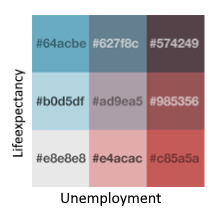
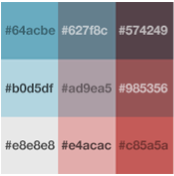
nuts regios pas tekenen nadat jaar en level gekozen zijn dynamische labels legenda

diff --git a/src/dashboard/app/src/app/result-map/result-map.component.ts b/src/dashboard/app/src/app/result-map/result-map.component.ts
@@ -48,10 +48,12 @@ export class ResultMapComponent implements OnInit, AfterViewInit, OnChanges {
       }
       if (propName === 'inputDisplayDataUpdated') { //  && valueCurrent
         console.log('ngOnChanges(), "inputDisplayDataUpdated":', valueCurrent);
-
+        console.log(this.inputDisplayObject.tableFields[0].tableYear + ' ' + this.inputDisplayObject.tableFields[0].tableRegionLevel);
         this.xydata = this.inputDisplayObject.displayData;
+        this.regionsLayer = RegionsLayer.getLayer(this.inputDisplayObject.tableFields[0].tableRegionLevel, this.inputDisplayObject.tableFields[0].tableYear);
+        this.map.addLayer(this.regionsLayer);
         this.plotData();
-
+        this.addLegend({'xlabel' : this.inputDisplayObject.tableFields[0].tableDescr, 'ylabel' : this.inputDisplayObject.tableFields[1].tableDescr});
       }
     }
   } // END FUNCTION ngOnChanges
@@ -102,7 +104,11 @@ export class ResultMapComponent implements OnInit, AfterViewInit, OnChanges {
     new LeafletControlLegend({position: 'bottomright'}).addTo(this.map);
     this.mapLegendDiv = document.getElementById('map_legend_div');
     this.mapLegendDiv.innerHTML = '<h4>Legend</h4>';
-    this.mapLegendDiv.innerHTML += '<img src="assets/img/legend2.png"></img>';
+    this.mapLegendDiv.innerHTML += '<img id ="scream" alt="legenda"  style="display:none" src="assets/img/legend.png"></img>';
+    this.mapLegendDiv.innerHTML += '<canvas id="myCanvas" width="200" height="200" ></canvas>';
+
+
+
 
     new LeafletControlWatermark().addTo(this.map);
 
@@ -118,12 +124,6 @@ export class ResultMapComponent implements OnInit, AfterViewInit, OnChanges {
       mat_icon: 'terminal',
       title: 'Log data in console ...'
     });
-
-
-
-
-    this.regionsLayer = RegionsLayer.getLayer(2, 2016);
-    this.map.addLayer(this.regionsLayer);
 
     this.map.fitBounds(L.latLng(53.238, 6.536).toBounds(3000000));
   } // END FUNCTION initResultMap
@@ -150,7 +150,7 @@ export class ResultMapComponent implements OnInit, AfterViewInit, OnChanges {
 
 
   plotData() {
-    console.log('plot', this.xydata)
+    //console.log('plot', this.xydata)
     let result = this.xydata.reduce((map: { [x: string]: any; }, obj: { geo: string | number; }) => {
       map[obj.geo] = obj;
       return map;
@@ -187,7 +187,7 @@ export class ResultMapComponent implements OnInit, AfterViewInit, OnChanges {
       //console.log('properties', properties);
       return {
         fill: true, fillColor: fillColor, fillOpacity: 1,
-        color: 'rgba(0,0,0,0.78)', opacity: 1, weight: 0.5,
+        color: 'rgba(255,255,255,0.77)', opacity: 1, weight: 0.5,
       };
     })
     this.regionsLayer.redraw();
@@ -200,8 +200,8 @@ export class ResultMapComponent implements OnInit, AfterViewInit, OnChanges {
 
     //console.log(xvalue, xmin, xmax, yvalue, ymin, ymax);
 
-    let index1 = Math.ceil((xvalue-xmin)/((xmax - xmin)/3));
-    let index2 = Math.ceil((yvalue-ymin)/((ymax-ymin)/3))
+    let index1 = Math.ceil((xvalue - xmin)/((xmax - xmin)/3));
+    let index2 = Math.ceil((yvalue - ymin)/((ymax - ymin)/3))
     if (xvalue === 17.2) {
       console.log(index1+' '+index2);
     }
@@ -244,13 +244,26 @@ export class ResultMapComponent implements OnInit, AfterViewInit, OnChanges {
     }));
   }
 
-  addLegend(): any {
+  addLegend(info) : any {
     for (let x=1;x<=3; x++) {
       for (let y=1;y<=3; y++) {
 
       }
 
     }
+    const canvas = document.getElementById("myCanvas") as (HTMLCanvasElement) ;
+    const ctx = canvas.getContext("2d");
+    ctx.font = "11px Verdana";
+    let textparts= info.xlabel.split(" ");
+    ctx.fillText(textparts[0] + ' ' + textparts[1], 5, 195);
+    const img = document.getElementById("scream") as HTMLImageElement;
+    ctx.drawImage(img, 15, 0, 180, 180);
+    ctx.save();
+    ctx.rotate(-90 * Math.PI / 180);
+    ctx.translate(-200,0)
+    textparts= info.ylabel.split(" ");
+    ctx.fillText(textparts[0] + ' ' + textparts[1], 20, 10);
+    ctx.restore();
 
 
   }

diff --git a/src/dashboard/app/src/app/layers/regions-layer.ts b/src/dashboard/app/src/app/layers/regions-layer.ts
@@ -10,7 +10,7 @@ export class RegionsLayer extends BaseLayer  {
   }
 
 
-  public static getLayer(nutslevel: number, year: number): any {
+  public static getLayer(nutslevel: string, year: string): any {
 
     //let nutsid = 3;
     let nutsUrl = vectorServer + "areas.get_nuts_areas_tiles" + "/{z}/{x}/{y}.pbf" + "?year=" + year + "&intlevel=" + nutslevel;
